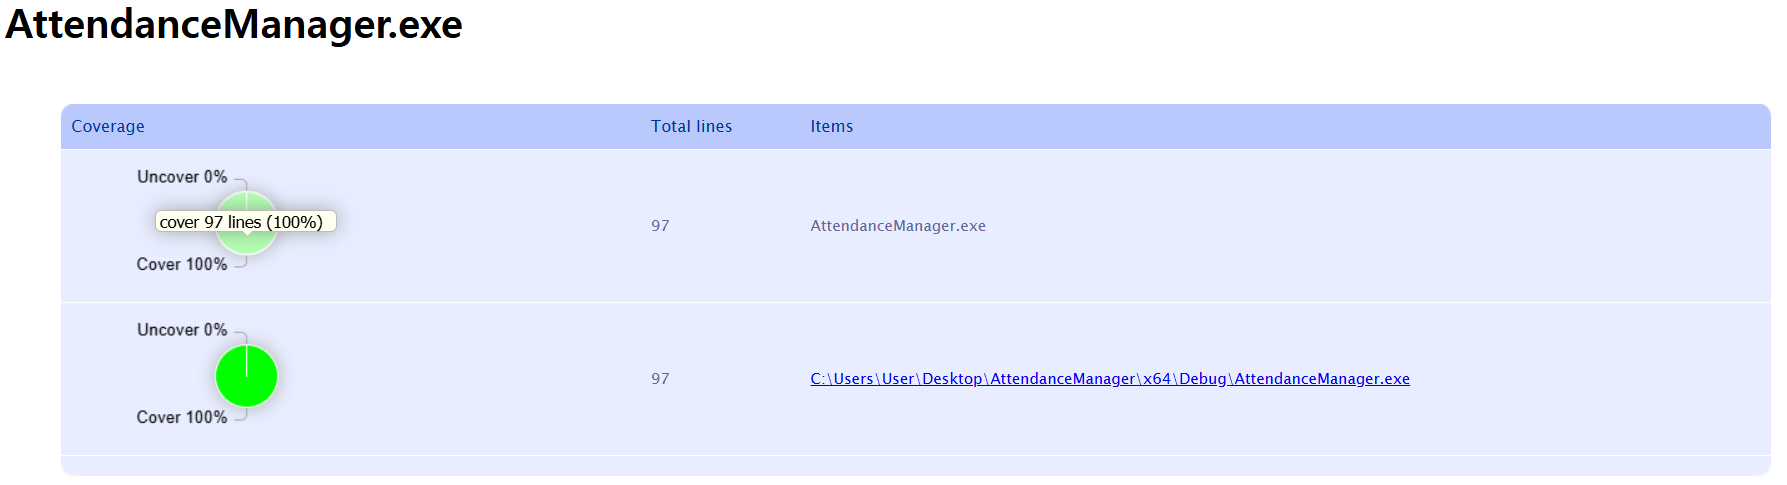
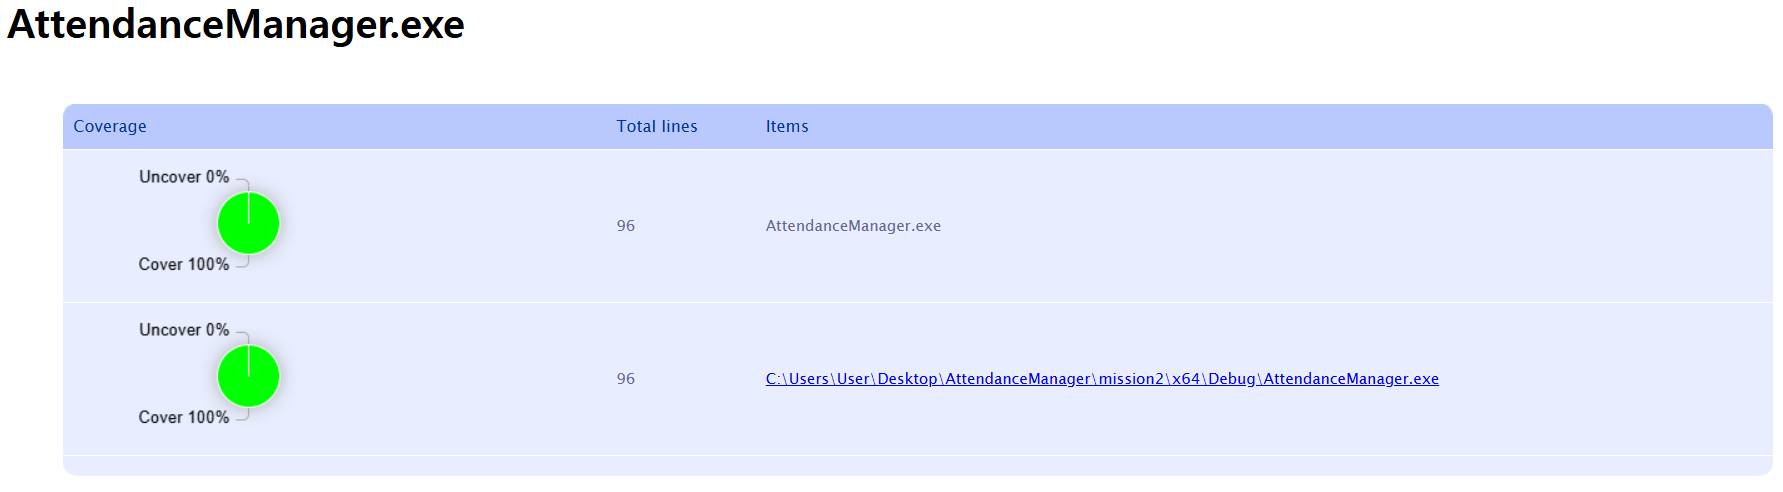
Replace code coverage picture

diff --git a/mission2/AttendanceManager/team.cpp b/mission2/AttendanceManager/team.cpp
@@ -86,12 +86,6 @@ void Team::processAllRecords() {
 		assignPlayer(playerName);
 		giveAttendancePoints(playerName, attendedWeekday);
 	}
-
 	giveBonusPoints();
-
-	showPlayerScoreAndGrades();
-
 	removeLazyPlayers();
-
-	showRemovedPlayers();
 }
